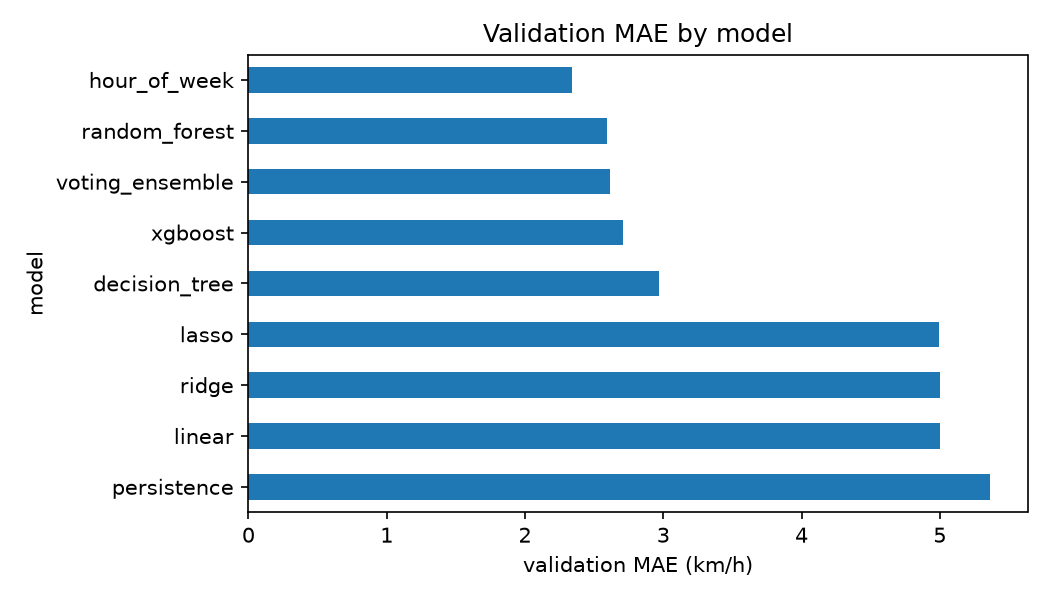
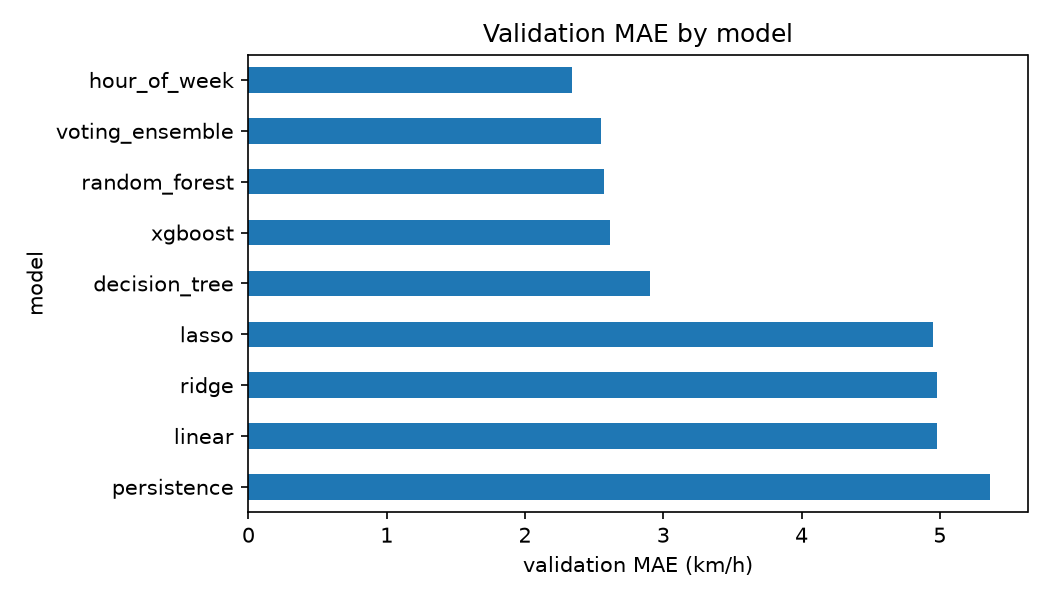
Day 4: add lag_168h, retrain, notebook 02, logs

diff --git a/src/tests/test_leakage.py b/src/tests/test_leakage.py
@@ -54,6 +54,7 @@ def test_lag_1h_equals_previous_speed():
     df = seg(build_features(make_hourly()))
     np.testing.assert_allclose(df["lag_1h"].iloc[1:].to_numpy(), df["speed_kmh"].iloc[:-1].to_numpy())
     np.testing.assert_allclose(df["lag_24h"].iloc[24:].to_numpy(), df["speed_kmh"].iloc[:-24].to_numpy())
+    np.testing.assert_allclose(df["lag_168h"].iloc[168:].to_numpy(), df["speed_kmh"].iloc[:-168].to_numpy())
 
 
 def test_rolling_mean_uses_past_and_current_only():
@@ -74,7 +75,7 @@ def test_changing_the_future_does_not_change_features_at_t():
     for df in (a, b):
         df.sort_values(["segment_id", "timestamp"], inplace=True)
     now = a["timestamp"] <= cutoff
-    past_feats = ["lag_1h", "lag_2h", "lag_24h", "roll_3h_mean", "roll_24h_mean"]
+    past_feats = ["lag_1h", "lag_2h", "lag_24h", "lag_168h", "roll_3h_mean", "roll_24h_mean"]
     pd.testing.assert_frame_equal(
         a.loc[now, past_feats].reset_index(drop=True),
         b.loc[b["timestamp"] <= cutoff, past_feats].reset_index(drop=True))
@@ -111,4 +112,4 @@ def test_real_split_files_are_chronological():
     assert (tr["timestamp"] + pd.Timedelta(hours=2)).max() < va["timestamp"].min()
     assert (va["timestamp"] + pd.Timedelta(hours=2)).max() < te["timestamp"].min()
     for df in (tr, va, te):
-        assert df[FEATURES + ["target_2h"]].notna().all().all()
+        assert df[[f for f in FEATURES if f != "lag_168h"] + ["target_2h"]].notna().all().all()

diff --git a/src/features.py b/src/features.py
@@ -6,7 +6,7 @@ import pandas as pd
 HORIZON = 2
 
 FEATURES = [
-    "lag_1h", "lag_2h", "lag_24h", "roll_3h_mean", "roll_24h_mean",
+    "lag_1h", "lag_2h", "lag_24h", "lag_168h", "roll_3h_mean", "roll_24h_mean",
     "neighbour_speed_t",
     "temperature", "humidity", "precipitation",
     "hour_sin", "hour_cos", "dow", "is_weekend", "month", "is_holiday",
@@ -25,6 +25,7 @@ def build_features(df: pd.DataFrame) -> pd.DataFrame:
     df["lag_1h"] = g.shift(1)
     df["lag_2h"] = g.shift(2)
     df["lag_24h"] = g.shift(24)
+    df["lag_168h"] = g.shift(168)                      # same hour last week (past only)
     df["roll_3h_mean"] = g.transform(lambda s: s.rolling(3, min_periods=3).mean())
     df["roll_24h_mean"] = g.transform(lambda s: s.rolling(24, min_periods=24).mean())
 

diff --git a/src/02_features_split.py b/src/02_features_split.py
@@ -18,7 +18,8 @@ GAP_HOURS = 2
 df = pd.read_parquet("data/processed/hourly.parquet")
 df = build_features(df)
 before = len(df)
-df = df.dropna(subset=FEATURES + ["target_2h"])        # rows without a full past or a target
+REQUIRED = [f for f in FEATURES if f != "lag_168h"]    # lag_168h may be NaN in week 1; the model imputer fills it from train
+df = df.dropna(subset=REQUIRED + ["target_2h"])        # rows without a full past or a target
 print(f"Kept {len(df)} of {before} rows after dropping incomplete ones")
 
 train, val, test, t1, t2 = chronological_split(df, gap_hours=GAP_HOURS)
